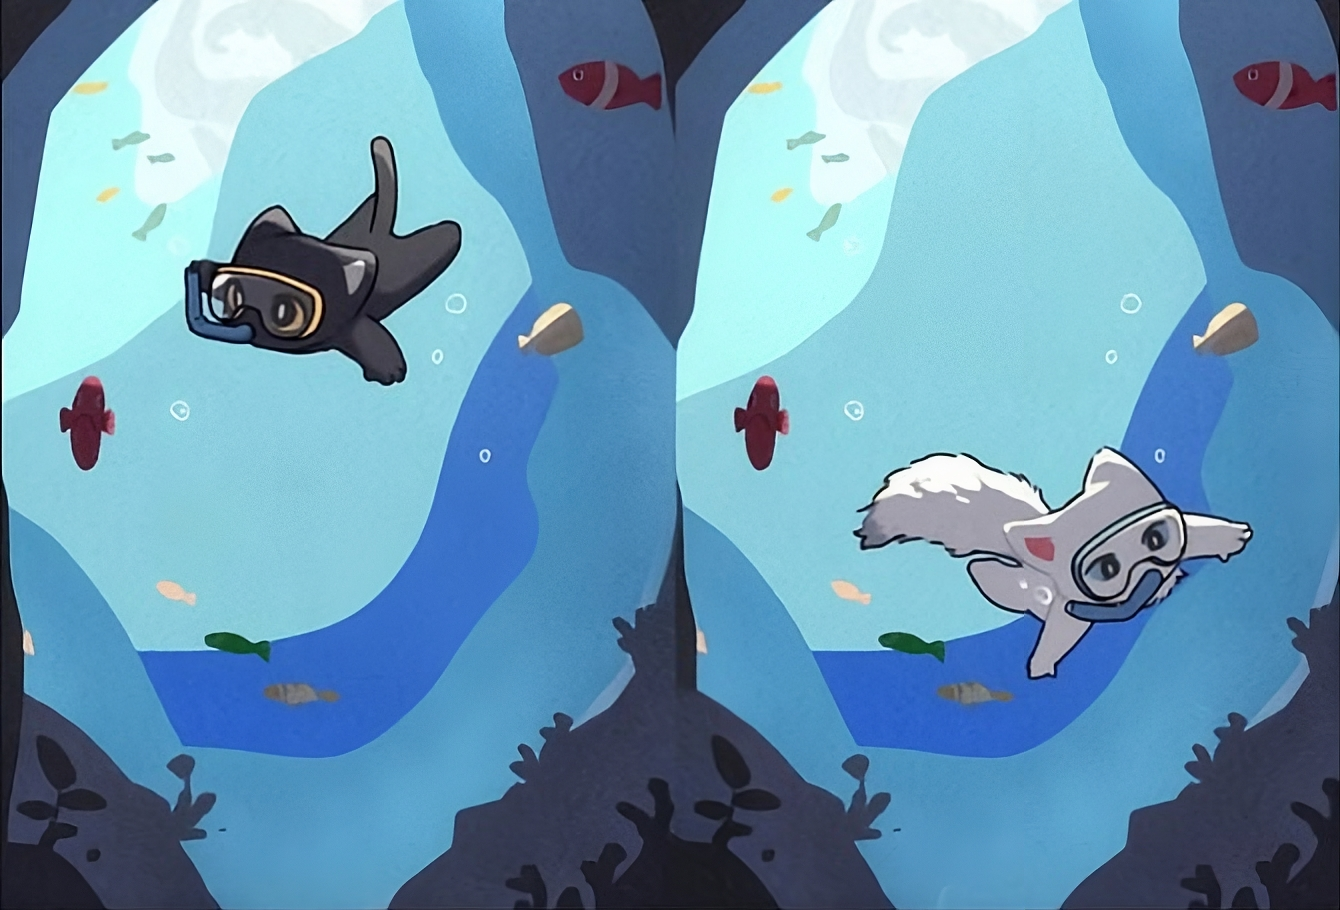
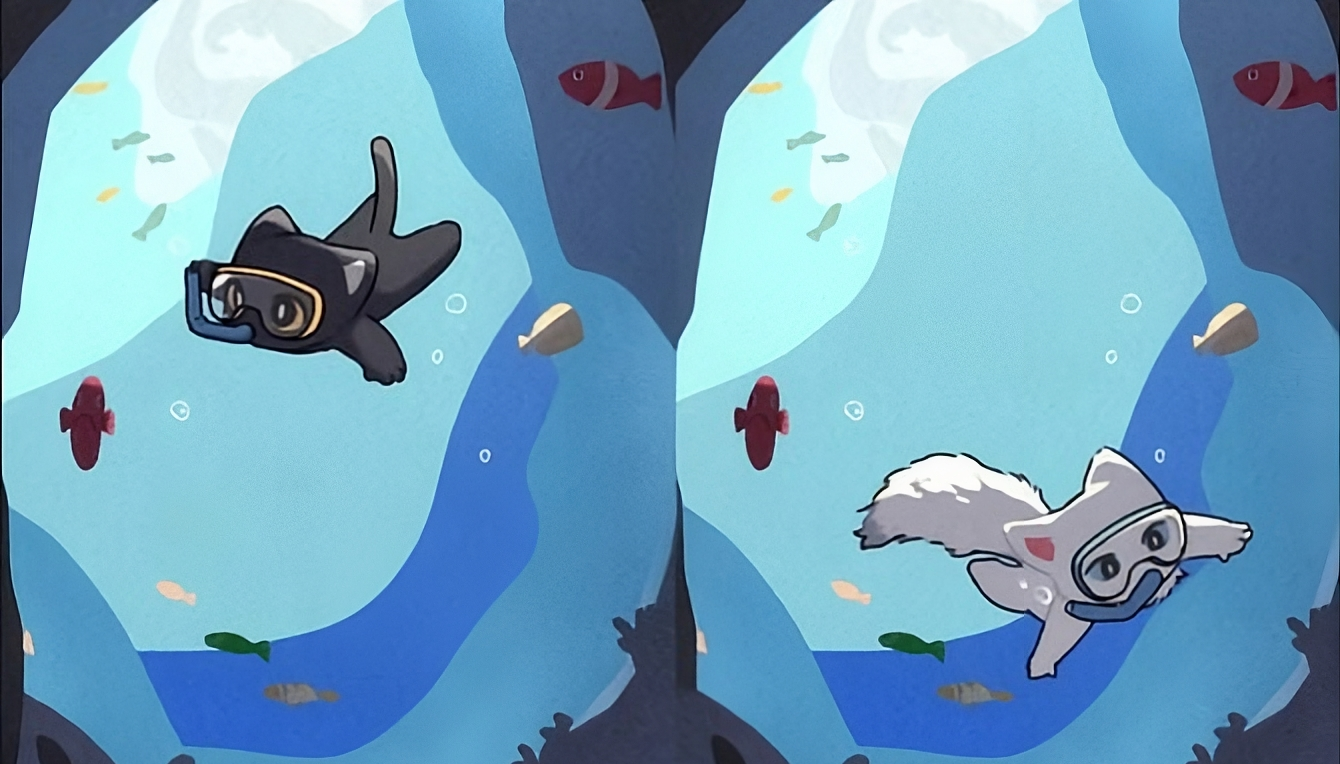
Modifiche CSS login/registrazione + correzione link contatti in chi-siamo.jsp

diff --git a/WebContent/styles/registrazione.css b/WebContent/styles/registrazione.css
@@ -12,24 +12,24 @@ body {
     font-family: verdana;
     background-image: url('../img/registrazione.png');
     background-size: cover;
-    background-position: center 40%;
+    background-position: center 45%;
     background-repeat: no-repeat;
     background-attachment: fixed;
     min-height: 100vh;
 }
 
 header {
-    padding: 10px;
+    background-color: #000080;
+    padding: 20px;
     text-align: center;
 }
 
 header .logo {
     color: #ffffff;
     font-family: impact;
-    font-size: 2.5rem;
+    font-size: 2rem;
     text-decoration: none;
     letter-spacing: 1px;
-    text-shadow: 0 2px 6px rgba(0, 0, 0, 0.5);
 }
 
 header .logo:hover {
@@ -42,31 +42,33 @@ main {
     flex-direction: column;
     align-items: center;
     justify-content: flex-start;
-    padding: 50px 20px 20px 20px;
+    padding: 40px 20px 20px 20px;
     box-sizing: border-box;
 }
 
-main h1 {
-    font-family: impact;
-    font-weight: normal;
-    color: #ffffff;
-    font-size: 1.5rem;
-    letter-spacing: 1px;
-    margin: 0 0 12px 0;
-    text-align: center;
-    text-shadow: 0 2px 6px rgba(0, 0, 0, 0.5);
-}
-
-form {
+.box-login {
     background-color: rgba(255, 255, 255, 0.92);
     border-radius: 8px;
     padding: 18px 25px;
     width: 100%;
     max-width: 340px;
     box-sizing: border-box;
+    box-shadow: 0 4px 20px rgba(0, 0, 0, 0.25);
+}
+
+.box-login h1 {
+    font-family: impact;
+    font-weight: normal;
+    color: #000080;
+    font-size: 1.5rem;
+    letter-spacing: 1px;
+    margin: 0 0 15px 0;
+    text-align: center;
+}
+
+form {
     display: flex;
     flex-direction: column;
-    box-shadow: 0 4px 20px rgba(0, 0, 0, 0.25);
 }
 
 form label {
@@ -137,8 +139,6 @@ main p a:hover {
     border: 1px solid #c0392b;
     border-radius: 4px;
     padding: 8px 12px;
-    width: 100%;
-    max-width: 340px;
     box-sizing: border-box;
     font-family: verdana;
     font-size: 0.85rem;
@@ -163,14 +163,14 @@ main p a:hover {
     }
 
     header .logo {
-        font-size: 1.8rem;
+        font-size: 1.6rem;
     }
 
-    main h1 {
+    .box-login h1 {
         font-size: 1.3rem;
     }
 
-    form {
+    .box-login {
         padding: 15px 20px;
     }
 }

diff --git a/WebContent/styles/login.css b/WebContent/styles/login.css
@@ -12,21 +12,22 @@ body {
     font-family: verdana;
     background-image: url('../img/login.jpeg');
     background-size: cover;
-    background-position: center;
+    background-position: center 20%;
     background-repeat: no-repeat;
     background-attachment: fixed;
     min-height: 100vh;
 }
 
 header {
-    padding: 10px;
+    background-color: #000080;
+    padding: 20px;
     text-align: center;
 }
 
 header .logo {
     color: #ffffff;
     font-family: impact;
-    font-size: 2.5rem;
+    font-size: 2rem;
     text-decoration: none;
     letter-spacing: 1px;
 }
@@ -45,26 +46,29 @@ main {
     box-sizing: border-box;
 }
 
-main h1 {
+.box-login {
+    background-color: rgba(255, 255, 255, 0.92);
+    border-radius: 8px;
+    padding: 25px;
+    width: 100%;
+    max-width: 340px;
+    box-sizing: border-box;
+    box-shadow: 0 4px 20px rgba(0, 0, 0, 0.25);
+}
+
+.box-login h1 {
     font-family: impact;
     font-weight: normal;
-    color: #ffffff;
+    color: #000080;
     font-size: 1.5rem;
     letter-spacing: 1px;
-    margin: 0 0 12px 0;
+    margin: 0 0 15px 0;
     text-align: center;
 }
 
 form {
-    background-color: rgba(255, 255, 255, 0.92);
-    border-radius: 8px;
-    padding: 18px 25px;
-    width: 100%;
-    max-width: 340px;
-    box-sizing: border-box;
     display: flex;
     flex-direction: column;
-    box-shadow: 0 4px 20px rgba(0, 0, 0, 0.25);
 }
 
 form label {
@@ -135,8 +139,6 @@ main p a:hover {
     border: 1px solid #c0392b;
     border-radius: 4px;
     padding: 8px 12px;
-    width: 100%;
-    max-width: 340px;
     box-sizing: border-box;
     font-family: verdana;
     font-size: 0.85rem;
@@ -161,14 +163,14 @@ main p a:hover {
     }
 
     header .logo {
-        font-size: 1.8rem;
+        font-size: 1.6rem;
     }
 
-    main h1 {
+    .box-login h1 {
         font-size: 1.3rem;
     }
 
-    form {
-        padding: 15px 20px;
+    .box-login {
+        padding: 20px;
     }
 }